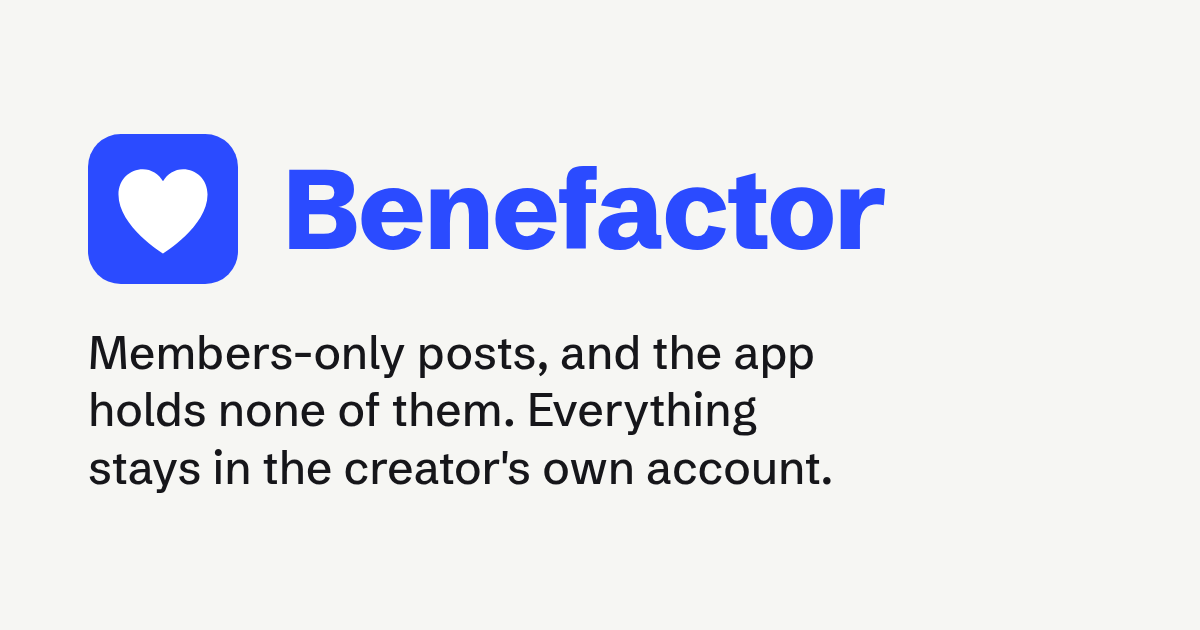
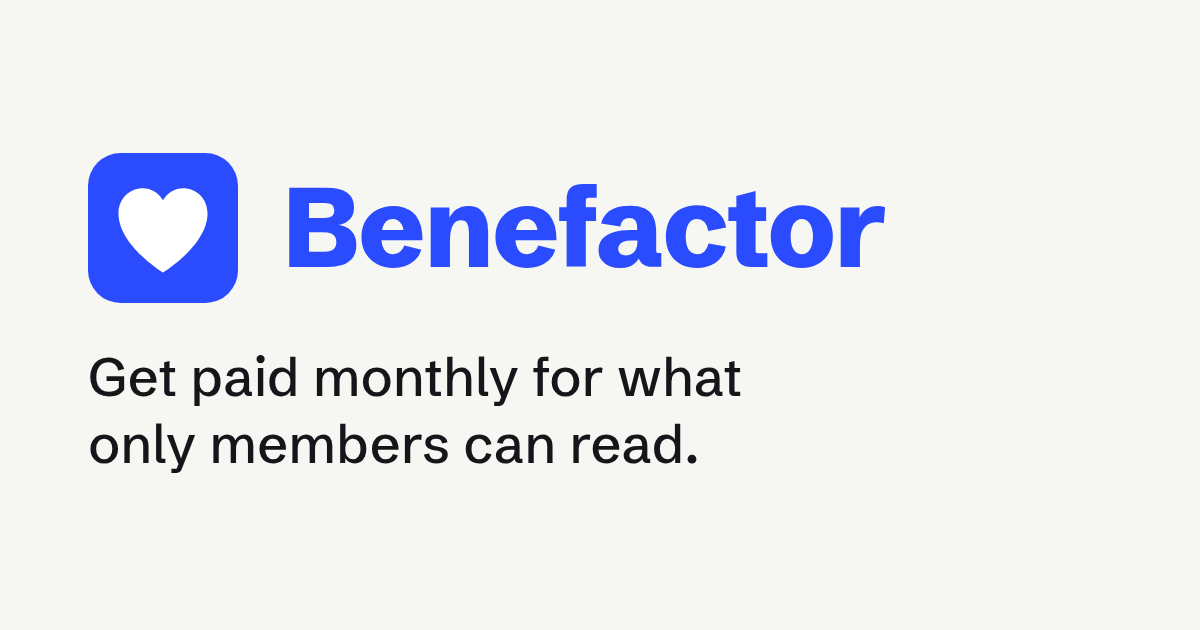
Shorten the share line

Changed region(s): [[0.0617, 0.5429, 0.7092, 0.7841], [0.2158, 0.2413, 0.74, 0.4222], [0.0617, 0.2111, 0.2158, 0.4825]]

diff --git a/index.html b/index.html
@@ -8,14 +8,14 @@
     <link rel="preconnect" href="https://fonts.googleapis.com">
     <link rel="preconnect" href="https://fonts.gstatic.com" crossorigin>
     <link href="https://fonts.googleapis.com/css2?family=Schibsted+Grotesk:wght@400;500;600;700;800&display=swap" rel="stylesheet">
-    <meta name="description" content="Members-only posts, and the app holds none of them. Everything stays in the creator&#39;s own account.">
+    <meta name="description" content="Get paid monthly for what only members can read.">
     <meta property="og:type" content="website">
     <meta property="og:title" content="Benefactor">
-    <meta property="og:description" content="Members-only posts, and the app holds none of them. Everything stays in the creator&#39;s own account.">
+    <meta property="og:description" content="Get paid monthly for what only members can read.">
     <meta property="og:image" content="https://bzr-sys.github.io/benefactor/og.png">
     <meta property="og:image:width" content="1200">
     <meta property="og:image:height" content="630">
-    <meta property="og:image:alt" content="Benefactor: Members-only posts, and the app holds none of them. Everything stays in the creator&#39;s own account.">
+    <meta property="og:image:alt" content="Benefactor: Get paid monthly for what only members can read.">
     <meta name="twitter:card" content="summary_large_image">
     <title>Benefactor</title>
   </head>
